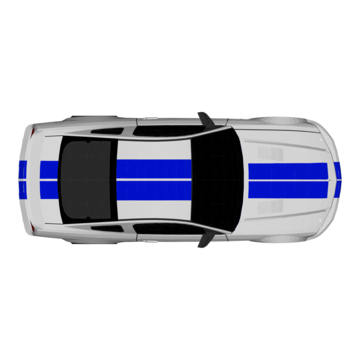
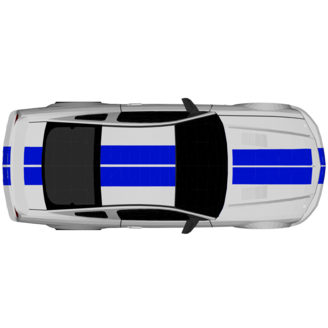
Updated car sprites

Changed region(s): [[0.0, 0.2744, 1.0, 0.7317]]

diff --git a/carmodel.cpp b/carmodel.cpp
@@ -16,7 +16,7 @@ CarModel::CarModel(QObject *parent)
     : QObject{parent},
       world(b2Vec2(0.0f, 0.0f)),
       timer(this),
-      image(":/sprites/Resources/car.png")
+      image(":/sprites/Resources/car3.png")
 {
     connect(Model::instance,
             &Model::keyPressed,
